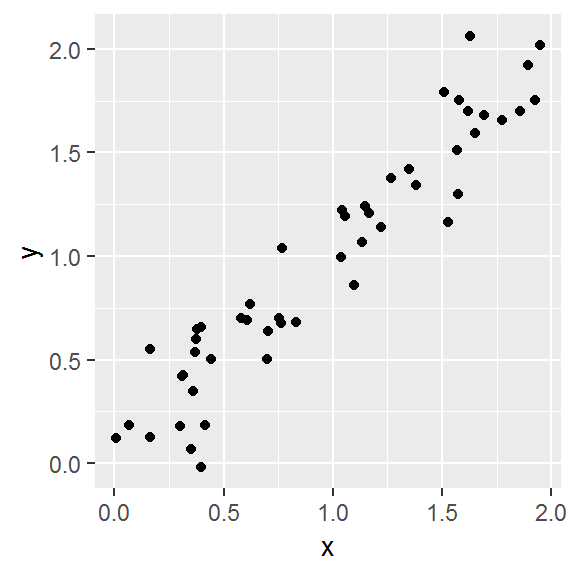
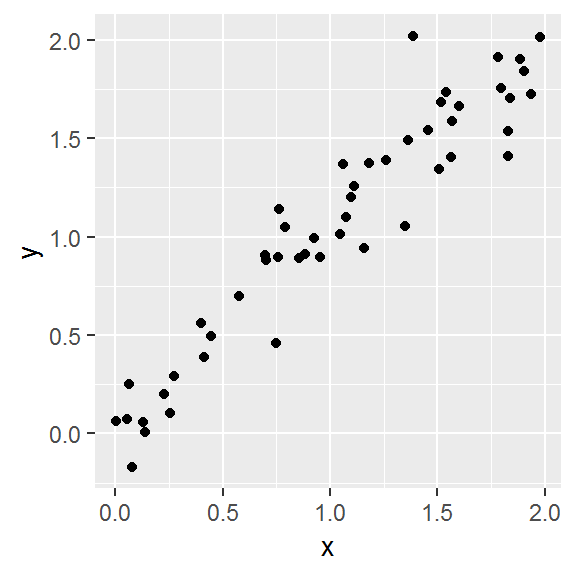
update s01

diff --git a/docs/index.html b/docs/index.html
@@ -110,7 +110,7 @@ $(document).ready(function () {
       <nav class="col-xs-3 menu">
         <div id="toc">
         <ul>
-        <li><a href="#welcome">Welcome!</a></li>
+        <li><a href="#hello">Hello!</a></li>
         <li><a href="#introducing-r">Introducing R</a></li>
         <li><a href="#session-01-raster-handling-in-r">Session 01: Raster handling in R</a></li>
         <li><a href="#session-02-preprocessing-data-quality-cloud-masking">Session 02: Preprocessing, data quality &amp; cloud masking</a></li>
@@ -134,14 +134,14 @@ $(document).ready(function () {
 
 
 
-<div id="welcome" class="section level1">
-<h1>Welcome!</h1>
+<div id="hello" class="section level1">
+<h1>Hello!</h1>
 <div class="figure">
 <img src="fig/header.png" />
 
 </div>
 <div id="about-earth-observation" class="section level2">
-<h2>About Earth Observation!</h2>
+<h2>About Earth Observation</h2>
 <p>Earth Observation is an advanced course for students of the Master of Science <a href="https://www.geographie.hu-berlin.de/en/studies/study-programs/master-degree-programs/master-of-science">“Global Change Geography”</a> of Humboldt-Universität zu Berlin, other interested parties are cordially invited to join. In this course, we cover multiple aspects of optical remote sensing by working with multi-sprectral Landsat and Sentinel 2 imagery. The course is fully based on open source software, including R and QGIS.</p>
 <p>As you followed the curriculum of the MSc program, you most likely joined the module “Quantitative Methods for Geographers”, in which you learned using R for statistical problems. Here, we built on your existing knowledge. If you are not enrolled in the MSc program, feel free to look at the <a href="https://github.com/corneliussenf/quantitative_methods">course materials</a>.</p>
 <p>Alternatively, you may want to follow one of the numerous tutorials for R fundamentals (e.g., <a href="https://www.rstudio.com/online-learning/">RStudio</a>, <a href="https://www.datacamp.com/courses/free-introduction-to-r">DataCamp</a>, <a href="http://www.r-tutorial.nl/">UMC Utrecht</a>), or advanced tutorials for geodata processing (e.g., <a href="https://geoscripting-wur.github.io/">Wageningen University</a>, <a href="https://www.earthdatascience.org/">University of Colorado</a>).</p>
@@ -162,20 +162,49 @@ $(document).ready(function () {
 </div>
 <div id="data" class="section level3">
 <h3>Data</h3>
-<p>All data used in the course is openly accessible. Mostly, we´ll be working with Landsat images, which you can access through the USGS Earth Explorer. We provide download links to the datasets for each session. It will be helpful if you organize your data in a course directory on your local machine (MSc students might want to use drive O:/Student_Data/).</p>
+<p>All data used in the course is openly accessible. Mostly, we´ll be working with Landsat images, which you can access through the USGS Earth Explorer. We provide download links to the datasets for each session. It will be helpful if you organize your data in a course directory on your local machine (MSc students might want to use drive O:/Student_Data/your_name/EO/).</p>
 </div>
 <div id="exercises" class="section level3">
 <h3>Exercises</h3>
-<p>The weekly exercises are defined in the respective session. Each session comprises several tasks that involve scipting in R. Course participants must submit their R script in <a href="http://moodle.hu-berlin.de/">moodle</a> to pass the course. Please organize your scripts according to the following structure:</p>
-<pre><code></code></pre>
+<p>The weekly exercises are defined in the respective session. Each session comprises several tasks that involve scipting in R. Course participants must submit their R script in <a href="http://moodle.hu-berlin.de/">moodle</a> to pass the course. Please structure your scripts as follows:</p>
+<pre><code>#############################################################################
+# MSc Earth Observation Exercise 01
+# [Your Name]
+#############################################################################
+
+# Load packages, use install.packages(&#39;packagename&#39;) to install if needed
+library(raster)
+
+# Change raster options to store large rasters in temp files on disk
+rasterOptions(maxmemory = 1e6)
+
+# Define the folder that contains your data...
+data.path &lt;- &#39;O:/Student_Data/your_name/EarthObservation/S01/data/&#39;
+
+#############################################################################
+# 1)    
+#############################################################################
+
+# Code for task 1
+
+...
+
+#############################################################################
+# 2)    
+#############################################################################
+
+# Code for task 2
+
+...
+</code></pre>
 <hr />
 </div>
 </div>
 </div>
 <div id="introducing-r" class="section level1">
 <h1>Introducing R</h1>
-<div id="why-use-r" class="section level2">
-<h2>Why use R?</h2>
+<div id="why-do-we-use-r" class="section level2">
+<h2>Why do we use R?</h2>
 <p>R is a programming language and open source software environment for statistical computing and graphics. The R language is widely used among statisticians and data miners for developing statistical software and data analysis. R was developed by Ross Ihaka and Robert Gentleman at the University of Auckland, New Zealand. The name R originates the first names of the two authors and refers to the programming language S. The project was conceived in 1992, with an initial version released in 1995 and a stable beta version in 2000.</p>
 <p>programming entry point | easy to learn | great support | open source | data wrangling | visualization | works cross-platform | popular in science &amp; industry | job opportunities</p>
 <div class="figure">
@@ -234,15 +263,15 @@ create_response &lt;-<span class="st"> </span><span class="cf">function</span>(x
 y &lt;-<span class="st"> </span><span class="kw">create_response</span>(x)
 
 <span class="co"># Make a dataframe</span>
-data &lt;-<span class="st"> </span><span class="kw">data.frame</span>(<span class="st">&#39;x&#39;</span>=x, <span class="st">&#39;y&#39;</span>=y)
+data &lt;-<span class="st"> </span><span class="kw">data.frame</span>(<span class="st">&#39;x&#39;</span> =<span class="st"> </span>x, <span class="st">&#39;y&#39;</span> =<span class="st"> </span>y)
 
 <span class="co"># Plot the simulated dataset</span>
-<span class="kw">ggplot</span>(data, <span class="kw">aes</span>(<span class="dt">x=</span>x, <span class="dt">y=</span>y)) <span class="op">+</span>
+<span class="kw">ggplot</span>(data, <span class="kw">aes</span>(<span class="dt">x =</span> x, <span class="dt">y =</span> y)) <span class="op">+</span>
 <span class="st">  </span><span class="kw">geom_point</span>()</code></pre></div>
 <p><img src="index_files/figure-html/style-1.png" width="288" style="display: block; margin: auto;" /></p>
 <div class="sourceCode"><pre class="sourceCode r"><code class="sourceCode r"><span class="co"># Investigate correlation in the data</span>
 <span class="kw">cor</span>(data<span class="op">$</span>x, data<span class="op">$</span>y)</code></pre></div>
-<pre><code>[1] 0.9493801</code></pre>
+<pre><code>[1] 0.9509257</code></pre>
 <hr />
 </div>
 <div id="help" class="section level2">
@@ -282,17 +311,17 @@ data &lt;-<span class="st"> </span><span class="kw">data.frame</span>(<span clas
 <li>LC08_L1TP_189025_20150820_20170406_01_T1</li>
 <li>LC08_L1TP_188026_20151101_20170402_01_T1</li>
 </ul>
-<p>For downloading the images, you will need an EarthExplorer account. Register and download the .zip files. Unpack them to a designated folder for this session. If you prefer not to register, you can download the files from our repository.</p>
-<pre><code>## Define the path you want to store your data in
-path &lt;- &#39;O:/Student_Data/your_name/EO/&#39;
+<p>For downloading the images, you will need an EarthExplorer account. Register and download the .tar.gz files. Unpack them to a designated folder for this session. If you prefer not to register, you can <a href="https://box.hu-berlin.de/f/5248da1584054eb6ba51/?dl=1">download the files from our repository</a>.</p>
+<pre><code>## Define a path you want to store this session´s data in
+path &lt;- &#39;O:/Student_Data/your_name/EO/S01/data/&#39;
 
 ## Create data directory in your working directory
-dir.create(paste0(path,&#39;data&#39;), showWarnings = TRUE)
+dir.create(path, showWarnings = TRUE)
 
 ## Download the files for this session
-if (!file.exists(&#39;data/rs/samples.rds&#39;)) {
-  download.file(&#39;https://biogeo.ucdavis.edu/data/rspatial/rsdata.zip&#39;, dest = &#39;data/rsdata.zip&#39;)
-  unzip(&#39;data/rsdata.zip&#39;, exdir=&#39;data&#39;)
+if (!file.exists(&#39;paste0(path,gcg_eo_s01.zip)) {
+  download.file(&#39;https://box.hu-berlin.de/f/5248da1584054eb6ba51/?dl=1&#39;, dest = paste0(path,&#39;gcg_eo_s01.zip&#39;)
+  unzip(paste0(path,&#39;gcg_eo_s01.zip&#39;, exdir=path)
 }</code></pre>
 <hr />
 <div id="reading-data" class="section level3">
@@ -456,10 +485,12 @@ if (!file.exists(&#39;data/rs/samples.rds&#39;)) {
 <div id="observations" class="section level2">
 <h2>Observations</h2>
 <ul>
-<li>Pixel</li>
+<li><a href="https://en.wikipedia.org/wiki/Pixel/">Pixel</a></li>
 <li><p>Observation</p></li>
-<li>Path/Row</li>
-<li>Grid, tile, chip</li>
+<li>Path/Row; WRS-2; Footprint; Scene: Partitions of Landsat images into approximately 185 × 185 km squares.</li>
+<li>Grid: an arbitrary subdivision with square units in the target coordinate system.</li>
+<li>Tile: an entity of the grid with a unique tile identifier.</li>
+<li>Chip: the individual gridded images that are affiliated with the tile.</li>
 <li><p>Scene, Image</p></li>
 <li>Data cube, Stack</li>
 <li>Time series</li>
@@ -482,15 +513,17 @@ if (!file.exists(&#39;data/rs/samples.rds&#39;)) {
 <div id="data-characteristics" class="section level2">
 <h2>Data characteristics</h2>
 <ul>
-<li>Scene</li>
 <li>Spectral band</li>
-<li>Image quality</li>
-<li>Observation density</li>
+<li><p>Image quality</p></li>
 <li>Very High Resolution</li>
 <li>High Resolution</li>
 <li>Medium Resolution</li>
 <li>Moderate Resolution</li>
-<li>Coarse Resolution</li>
+<li><p>Coarse Resolution</p></li>
+<li>Time Series</li>
+<li>Observation density</li>
+<li>Multi-temporal</li>
+<li><p>Hyper-temporal</p></li>
 </ul>
 </div>
 <div id="higher-level-products" class="section level2">
@@ -512,8 +545,6 @@ if (!file.exists(&#39;data/rs/samples.rds&#39;)) {
 <li>Annual</li>
 <li>Intra-annual</li>
 <li>Seasonal</li>
-<li>Multi-temporal</li>
-<li>Hyper-temporal</li>
 </ul>
 </div>
 </div>
